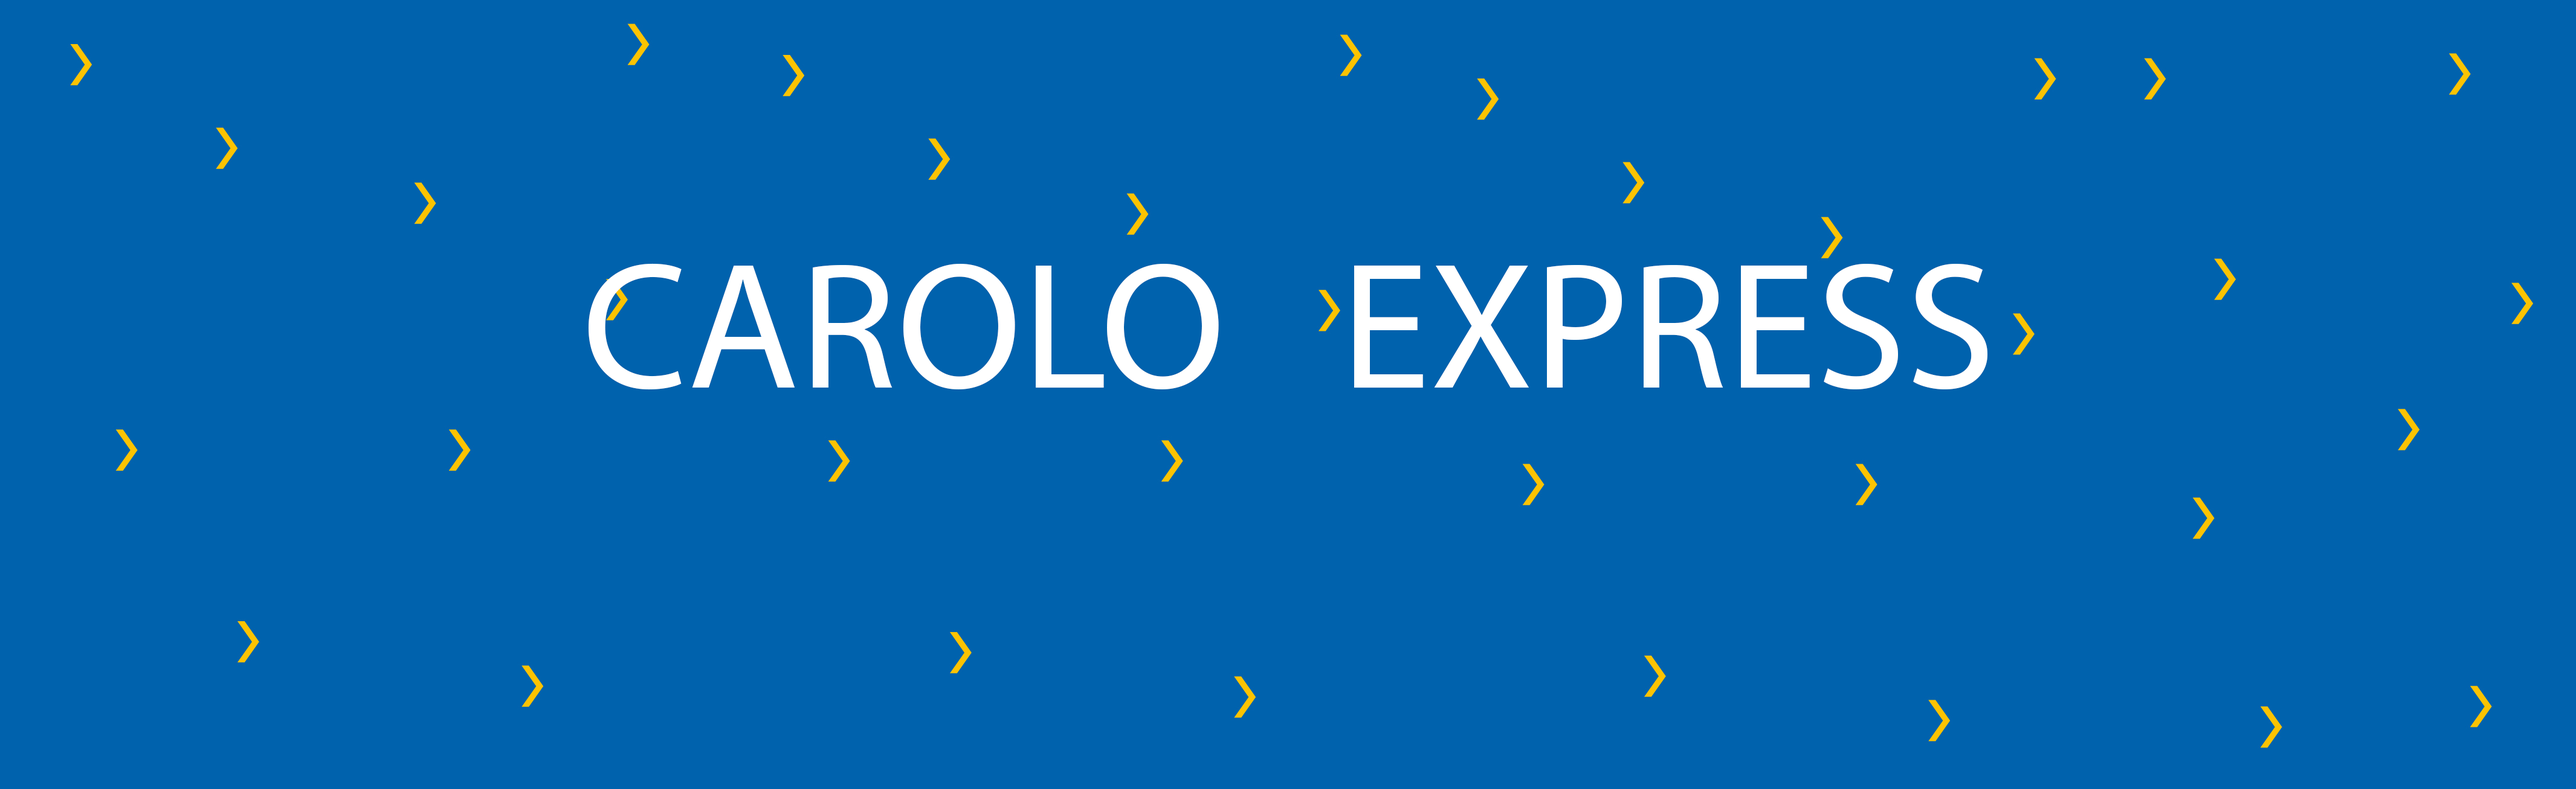
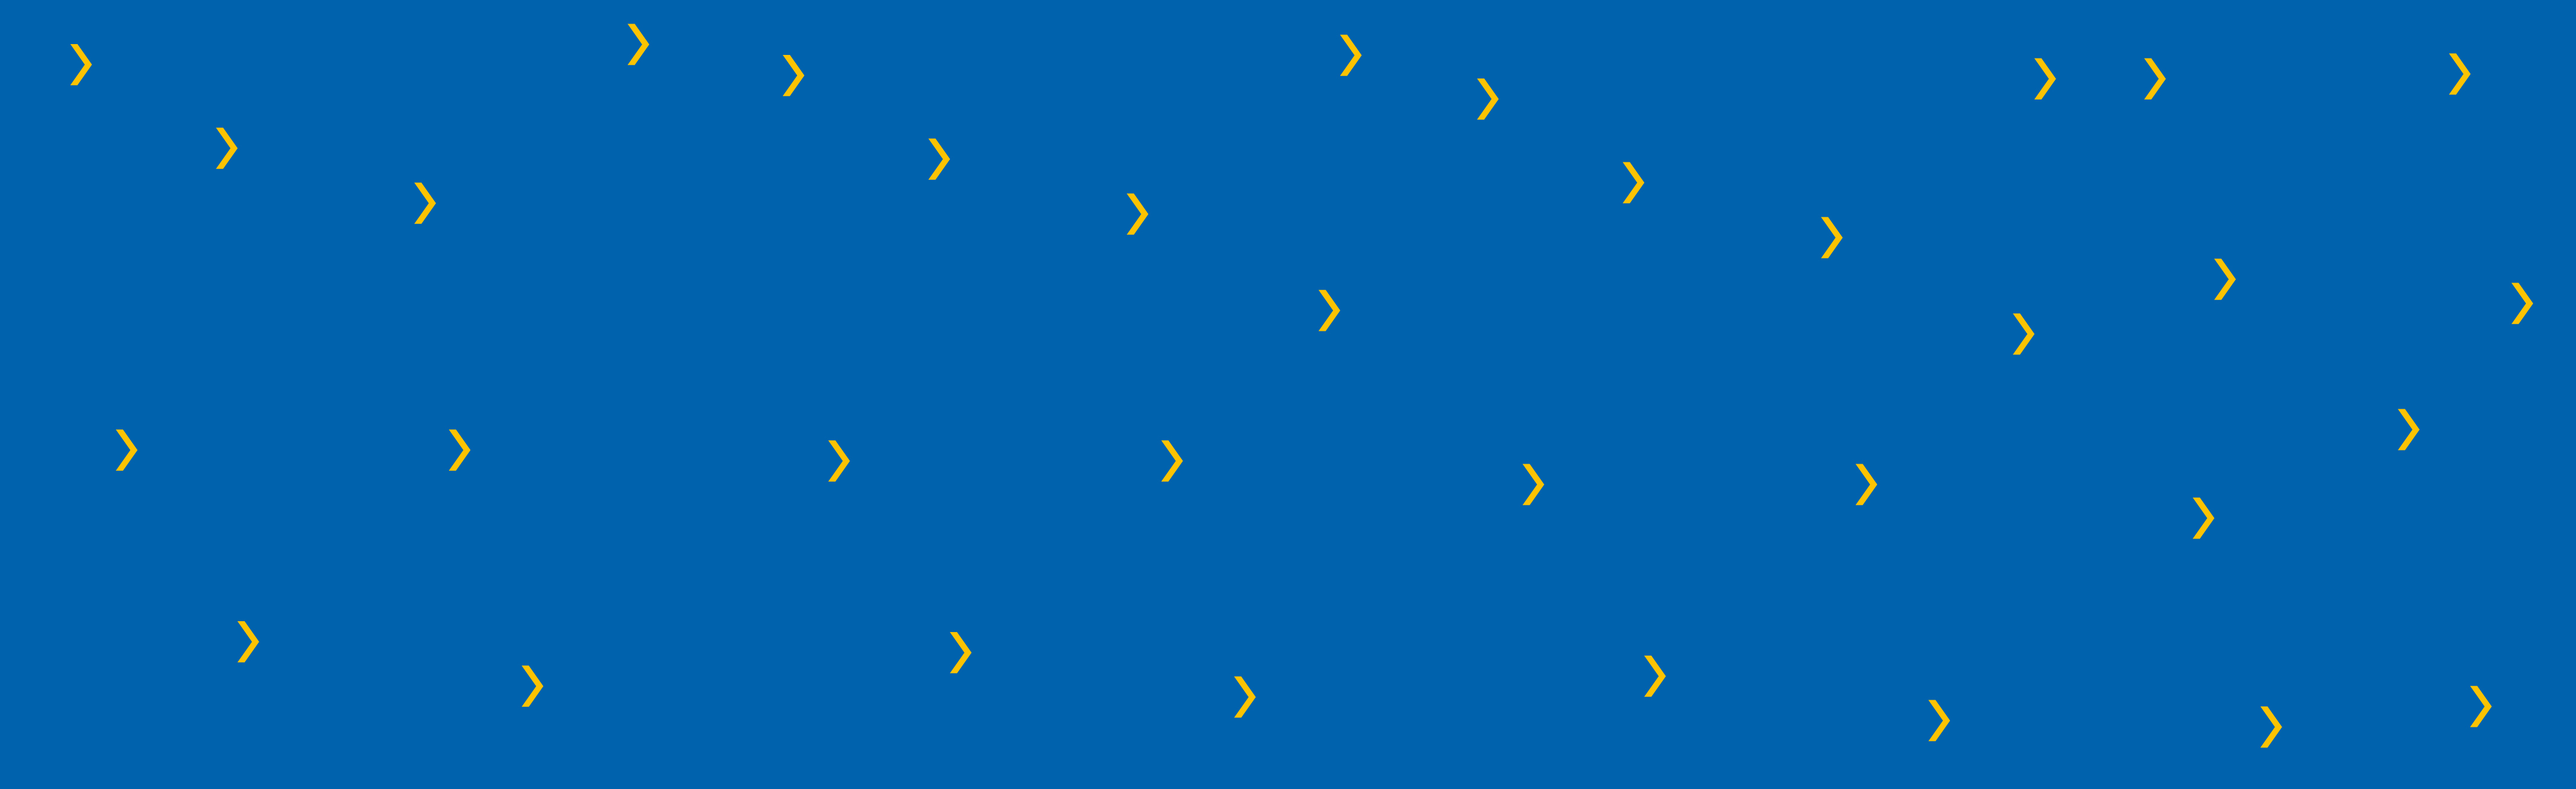
header event ok

Changed region(s): [[0.2184, 0.3366, 0.78, 0.4897]]

diff --git a/assets/css/style.css b/assets/css/style.css
@@ -165,6 +165,19 @@ html {
 .event_img {
     max-width: 100%;
 }
+.header_img {
+    /* The image used */
+    background-image: url("../../img/header.png");
+  
+    /* Set a specific height */
+    height: 250px;
+  
+    /* Create the parallax scrolling effect */
+
+
+    background-repeat: no-repeat;
+    background-size: cover;
+  }
 
 .img_faq {
     background-size: 150%;

diff --git a/event.php b/event.php
@@ -25,7 +25,9 @@
 
   <!-- img event -->
 
-  <div><img class="event_img" src="img/evenement.jpeg"></div>
+  <div class="header_img">
+    <div class="d-flex align-items-center justify-content-center" style="height:250px;"><h2 class="display-2 text-white"><strong>Les événement de la Rentrée</strong></h2></div>
+  </div>
 
   <!--carte-->
 
